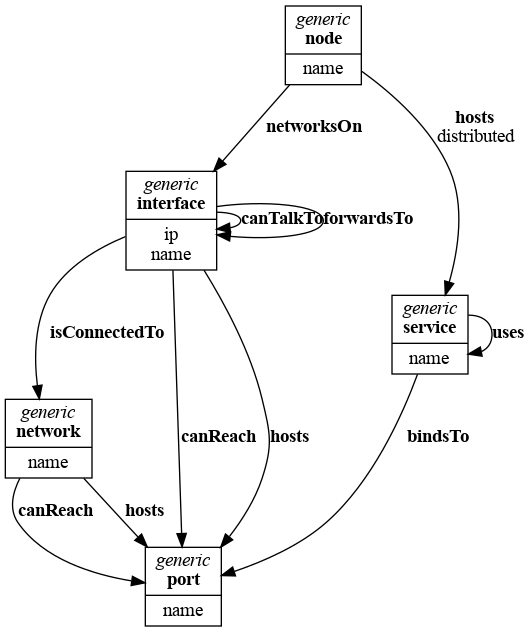
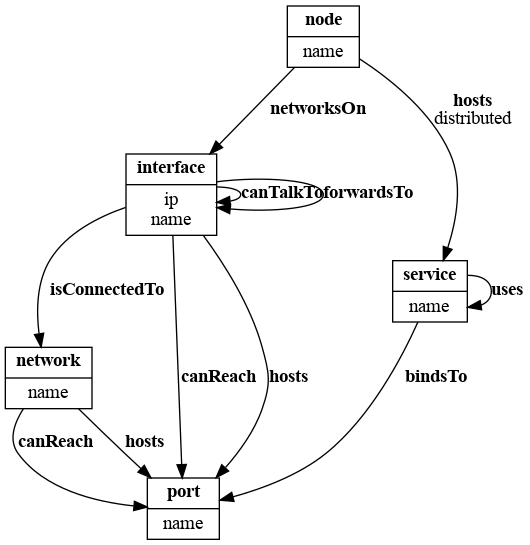
clean-up class hierarchy

diff --git a/onthology.py b/onthology.py
@@ -9,13 +9,9 @@ from schema import Optional as Opt, Schema, SchemaError
 
 
 @functools.total_ordering
-class MetaNode:
-    def __init__(self, name: str, cls: str = 'generic', attributes: Optional[Set[str]] = None):
-        self.cls: str = cls
+class AbstractNode:
+    def __init__(self, name: str):
         self.name: str = name
-        if attributes is None:
-            attributes = set()
-        self.attributes: Set[str] = attributes
 
     def id(self) -> str:
         return self.name
@@ -27,21 +23,29 @@ class MetaNode:
         return self.id() < other.id()
 
     def to_label(self) -> str:
-        return f"<{{<i>{self.cls}</i><br /><b>{self.name}</b>|{'<br />'.join(sorted(self.attributes))}}}>"
+        return f"<{{<b>{self.name}</b>}}>"
 
     def draw(self, g: graphviz.Digraph):
         g.node(name=self.id(), label=self.to_label())
 
 
-@functools.total_ordering
-class MetaEdge:
-    def __init__(self, source: MetaNode, destination: MetaNode, label: str, attributes: Optional[Set[str]] = None):
-        self.source: MetaNode = source
-        self.destination: MetaNode = destination
-        self.label: str = label
+class MetaNode(AbstractNode):
+    def __init__(self, name: str, attributes: Optional[Set[str]] = None):
+        super().__init__(name=name)
         if attributes is None:
             attributes = set()
-        self.attributes = attributes
+        self.attributes: Set[str] = attributes
+
+    def to_label(self) -> str:
+        return super().to_label()[:-2] + f"|{'<br />'.join(sorted(self.attributes))}}}>"
+
+
+@functools.total_ordering
+class AbstractEdge:
+    def __init__(self, source: AbstractNode, destination: AbstractNode, label: str):
+        self.source: AbstractNode = source
+        self.destination: AbstractNode = destination
+        self.label: str = label
 
     def __str__(self) -> str:
         return f"{str(self.source)}_{str(self.destination)}_{self.label}"
@@ -50,23 +54,32 @@ class MetaEdge:
         return str(self) < str(other)
 
     def to_label(self) -> str:
-        return f"<<b>{self.label}</b>{''.join('<br />' + attribute for attribute in sorted(self.attributes))}>"
+        return f"<<b>{self.label}</b>>"
 
     def draw(self, g: graphviz.Digraph):
         g.edge(self.source.id(), self.destination.id(), self.to_label())
 
 
-class NodeInstance(MetaNode):
-    def __init__(self, cls: str, name: str):
-        super().__init__(name=name, cls=cls)
+class MetaEdge(AbstractEdge):
+    def __init__(self, source: MetaNode, destination: MetaNode, label: str, attributes: Optional[Set[str]] = None):
+        super().__init__(source, destination, label)
+        if attributes is None:
+            attributes = set()
+        self.attributes = attributes
+
+    def to_label(self) -> str:
+        return super().to_label()[:-1] + f"{''.join('<br />' + attribute for attribute in sorted(self.attributes))}>"
+
+
+class Node(AbstractNode):
+    def __init__(self, cls: AbstractNode, name: str):
+        super().__init__(name=name)
+        self.cls: AbstractNode = cls
         self.attribute_values: Dict[str, Any] = dict()
-        self.outgoing_edges: Set['EdgeInstance'] = set()
+        self.outgoing_edges: Set['Edge'] = set()
 
-    def add_edge(self, edge: 'EdgeInstance'):
+    def add_edge(self, edge: 'Edge'):
         self.outgoing_edges.add(edge)
-
-    def id(self) -> str:
-        return f"{self.cls}_{self.name}"
 
     def to_label(self) -> str:
         return f"""<{{<i>{self.cls}</i><br /><b>{self.name}</b>|{
@@ -79,29 +92,29 @@ class NodeInstance(MetaNode):
             edge.draw(g)
 
 
-class EdgeInstance(MetaEdge):
-    def __init__(self, source: NodeInstance, destination: NodeInstance, label: str,
-                 attributes: Optional[Dict[str, Any]] = None):
-        super().__init__(source, destination, label, attributes=None)
-        if attributes is None:
-            attributes = dict()
-        self.attribute_values: Dict[str, Any] = attributes
+class Edge(AbstractEdge):
+    def __init__(self, source: Node, destination: Node, label: str,
+                 attribute_values: Optional[Dict[str, Any]] = None):
+        super().__init__(source, destination, label)
+        if attribute_values is None:
+            attribute_values = dict()
+        self.attribute_values: Dict[str, Any] = attribute_values
 
     def to_label(self) -> str:
-        return f"""<<b>{self.label}</b>{
-        ''.join(f'<br align="left"/>{label} = {value}' for label, value in sorted(self.attribute_values.items()))}>"""
+        return super().to_label()[:-1] + f"""{''.join(f'<br align="left"/>{label} = {value}' 
+                                                      for label, value in sorted(self.attribute_values.items()))}>"""
 
 
 class Topology:
     def __init__(self):
-        self.instances: Dict[str, NodeInstance] = dict()
+        self.instances: Dict[str, Node] = dict()
 
-    def add_instance(self, instance: NodeInstance):
+    def add_instance(self, instance: Node):
         assert instance.id() not in self.instances
         self.instances[instance.id()] = instance
 
-    def get_instance(self, cls: str, name: str) -> NodeInstance:
-        new_instance = NodeInstance(cls=cls, name=name)
+    def get_instance(self, cls: AbstractNode, name: str) -> Node:
+        new_instance = Node(cls=cls, name=name)
         if new_instance.id() in self.instances:
             return self.instances[new_instance.id()]
         self.add_instance(new_instance)
@@ -121,22 +134,24 @@ class Topology:
 
 class Onthology:
     def __init__(self):
-        self.nodes: Dict[str, MetaNode] = dict()
-        self.edges: Dict[str, Dict[str, MetaEdge]] = dict()
+        self.meta_nodes: Dict[str, MetaNode] = dict()
+        self.meta_edges: Dict[str, Dict[str, MetaEdge]] = dict()
         self.schema: Optional[Schema] = None
 
     def add_edge(self, edge: MetaEdge):
-        if edge.source.id() not in self.edges:
-            self.edges[edge.source.id()] = dict()
+        if edge.source.id() not in self.meta_edges:
+            self.meta_edges[edge.source.id()] = dict()
 
-        self.edges[edge.source.id()][edge.label] = edge
+        self.meta_edges[edge.source.id()][edge.label] = edge
 
     def get_all_edges(self) -> Set[MetaEdge]:
-        return {edge for source_dict in self.edges.values()
+        return {edge for source_dict in self.meta_edges.values()
                 for edge in source_dict.values()}
 
-    def get_edge_by_source_and_label(self, source_id: str, label: str) -> Optional[MetaEdge]:
-        return self.edges.get(source_id, dict()).get(label, None)
+    def get_edge_by_source_and_label(self, source_id: Union[str, MetaNode], label: str) -> Optional[MetaEdge]:
+        if isinstance(source_id, MetaNode):
+            source_id = str(source_id)
+        return self.meta_edges.get(source_id, dict()).get(label, None)
 
     META_ONTHOLOGY = Schema({
         # source
@@ -159,7 +174,7 @@ class Onthology:
         g = graphviz.Digraph(format='png')
         g.node_attr.update({'shape': 'record'})
 
-        for node in sorted(self.nodes.values()):
+        for node in sorted(self.meta_nodes.values()):
             g.node(str(node), label=node.to_label())
 
         for edge in sorted(self.get_all_edges()):
@@ -170,10 +185,10 @@ class Onthology:
         print("Graph saved in", filename)
 
     def get_node(self, name: str) -> MetaNode:
-        if name in self.nodes:
-            return self.nodes[name]
+        if name in self.meta_nodes:
+            return self.meta_nodes[name]
         node = MetaNode(name)
-        self.nodes[name] = node
+        self.meta_nodes[name] = node
         return node
 
     @staticmethod
@@ -262,21 +277,23 @@ class Onthology:
             raise se
 
         topology = Topology()
-        for source_cls, source_instances in topology_dict.items():
+        for source_cls_id, source_instances in topology_dict.items():
+            source_cls = self.meta_nodes[source_cls_id]
             for source_name, attribute_labels in source_instances.items():
-                source_instance = NodeInstance(cls=source_cls, name=source_name)
+                source_instance = Node(cls=source_cls, name=source_name)
                 for attribute_label, attribute_values in attribute_labels.items():
-                    edge = self.get_edge_by_source_and_label(source_cls, attribute_label)
+                    edge = self.get_edge_by_source_and_label(source_cls_id, attribute_label)
                     if edge is None:
                         source_instance.attribute_values[attribute_label] = attribute_values
                     else:
-                        destination_cls = edge.destination.id()
+                        destination_cls_id = edge.destination.id()
+                        destination_cls = self.meta_nodes[destination_cls_id]
                         for destination_name, attributes in attribute_values.items():
                             destination_instance = topology.get_instance(cls=destination_cls, name=destination_name)
-                            new_edge = EdgeInstance(source=source_instance,
-                                                    destination=destination_instance,
-                                                    label=attribute_label,
-                                                    attributes=attributes)
+                            new_edge = Edge(source=source_instance,
+                                            destination=destination_instance,
+                                            label=attribute_label,
+                                            attribute_values=attributes)
                             source_instance.add_edge(new_edge)
                 topology.add_instance(source_instance)
         return topology
